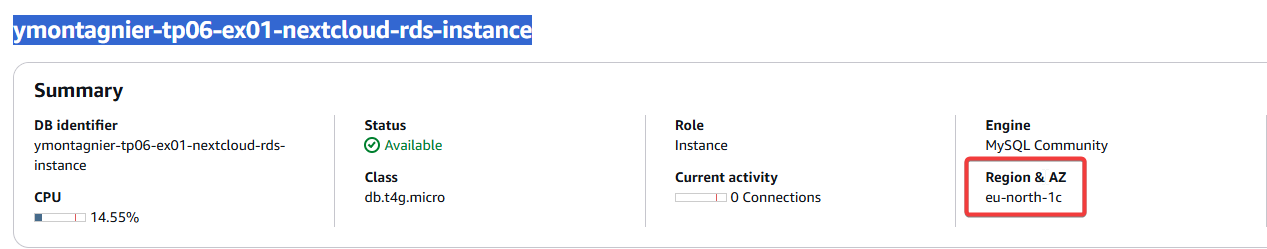
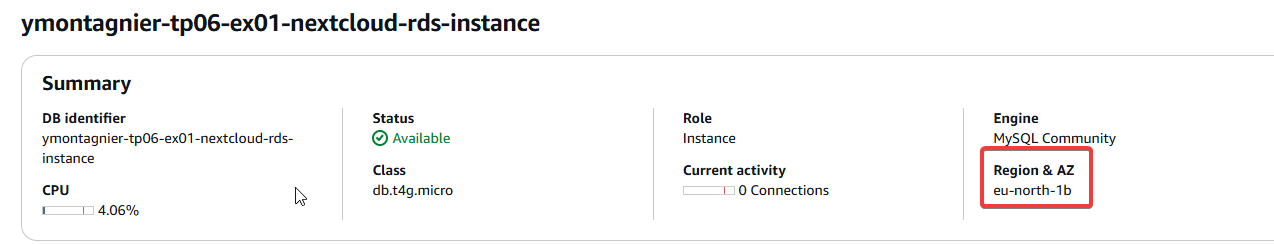
Correction rendu TP6

diff --git a/TP6/tp06-ex01/README.md b/TP6/tp06-ex01/README.md
@@ -171,7 +171,7 @@ mysql> SELECT * FROM test;
 #### 🛑 Déclenchement d'un failover
 
 Depuis AWS CLI :
-Redémarrage avec failover :  
+On force un redémarrage avec failover (`--force-failover`) :  
 ```sh
 PS C:\Users\yrlan\OneDrive - Ynov\01-Cours\Infra & SI\M2 - Infrastructure CLOUD AWS\M5-infra-cloud-aws\TP6\tp06-ex01> aws rds reboot-db-instance --db-instance-identifier ymontagnier-tp06-ex01-nextcloud-rds-instance --force-failover
 {
@@ -290,7 +290,7 @@ PS C:\Users\yrlan\OneDrive - Ynov\01-Cours\Infra & SI\M2 - Infrastructure CLOUD 
 ```
 
 Suivi du statut :  
-```sh
+```bash
 PS C:\Users\yrlan\OneDrive - Ynov\01-Cours\Infra & SI\M2 - Infrastructure CLOUD AWS\M5-infra-cloud-aws\TP6\tp06-ex01> aws rds describe-db-instances --db-instance-identifier ymontagnier-tp06-ex01-nextcloud-rds-instance --query "DBInstances[*].DBInstanceStatus"
 [
     "rebooting"
@@ -299,7 +299,7 @@ PS C:\Users\yrlan\OneDrive - Ynov\01-Cours\Infra & SI\M2 - Infrastructure CLOUD 
 
 #### 🕵 Observation du comportement
 Pendant le failover, tester une requête :  
-```sh
+```bash
 ubuntu@ip-10-0-6-99:~$ mysql -h ymontagnier-tp06-ex01-nextcloud-rds-instance.c2oopr9eothp.eu-north-1.rds.amazonaws.com -u admin -p -e "SELECT * FROM nextcloud.test;"
 Enter password: 
 +----+-----------+
@@ -335,7 +335,7 @@ Confirmer la bascule vers une autre AZ sur AWS Console.
 Avant : 
 ![image](img/bascule.png)
 Après : 
-![image](img/bascule.png)
+![image](img/bascule2.png)
 
 # 4⃣ 4. Documentation des Tests  
 
